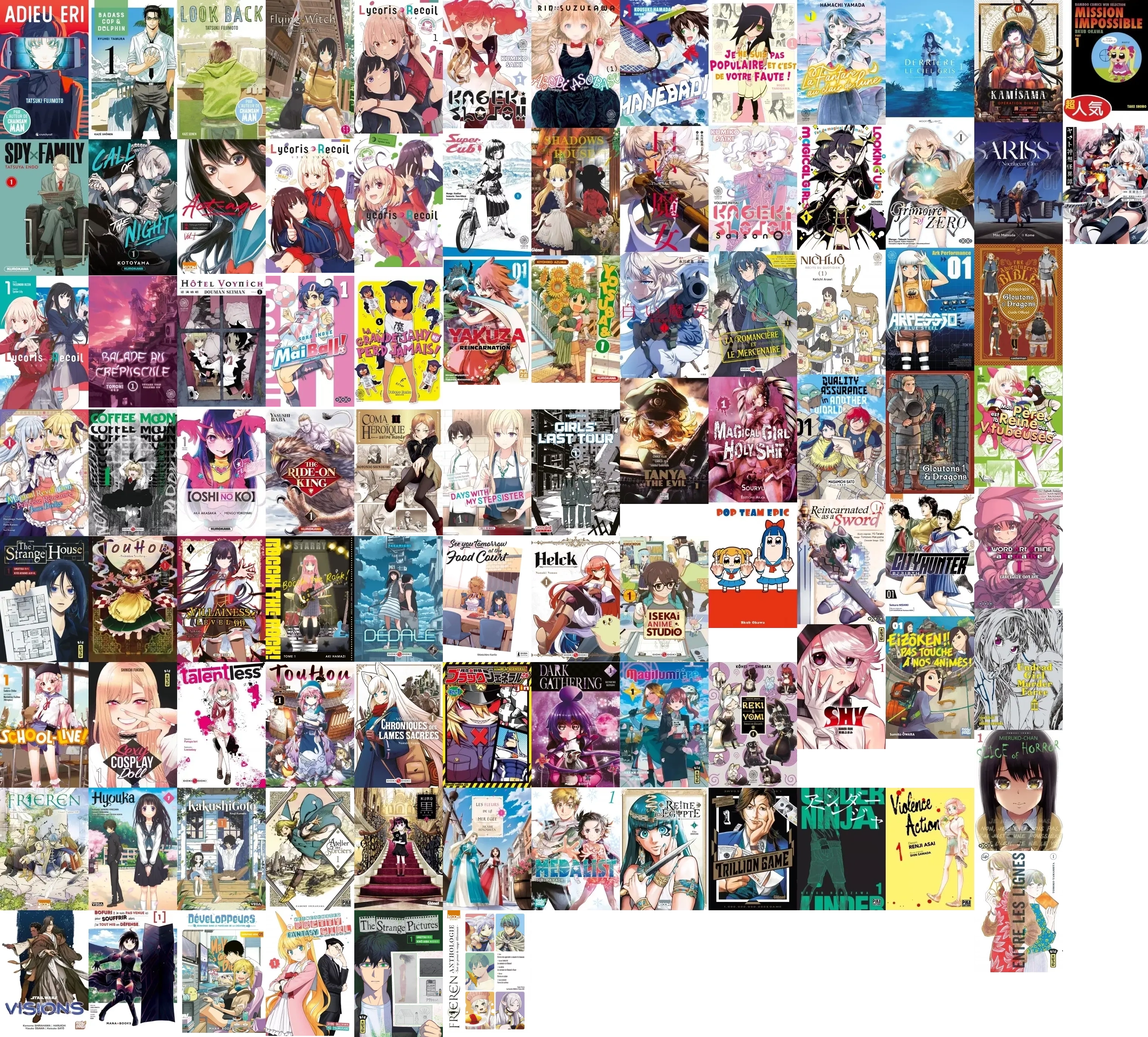
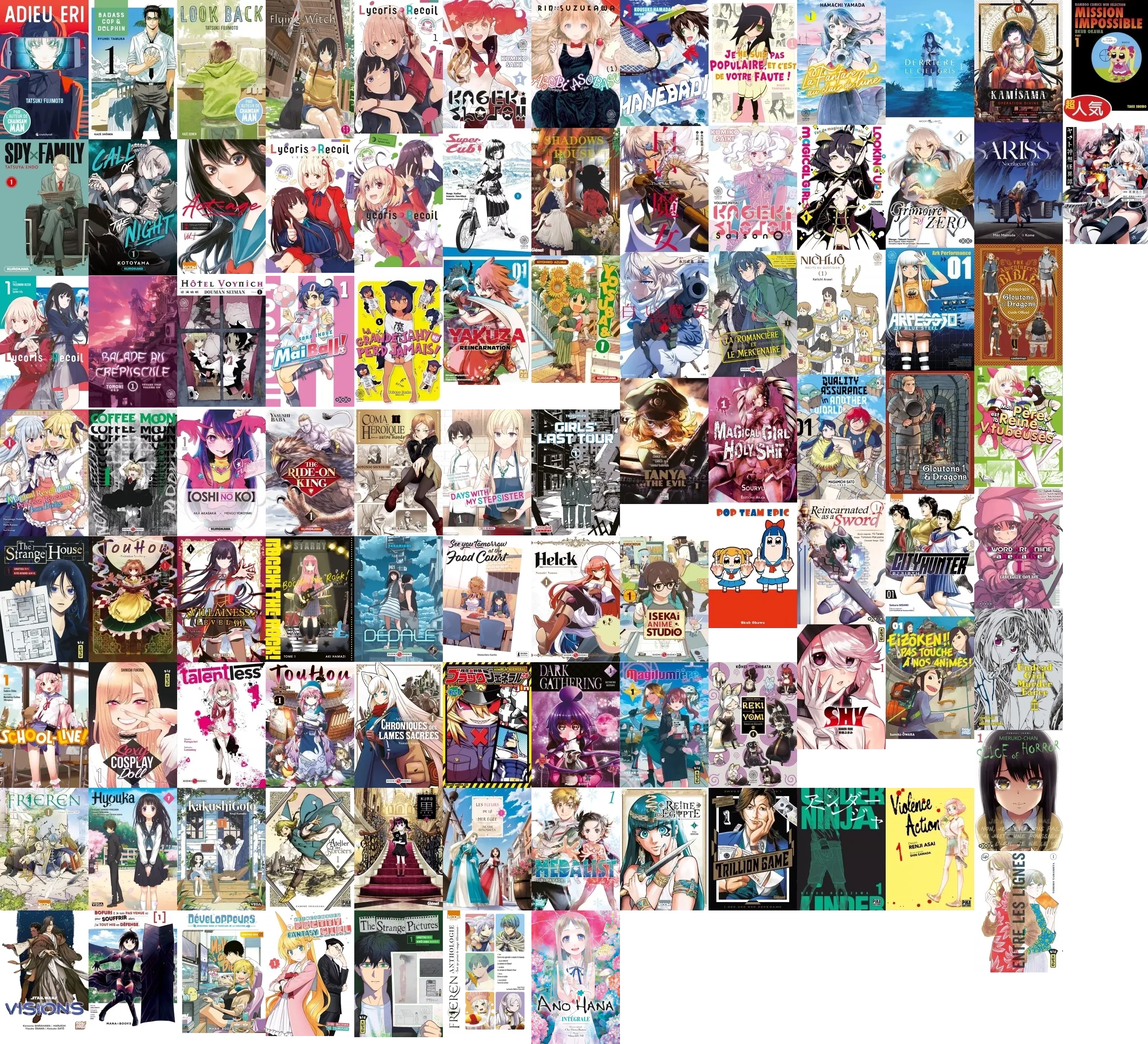
màj Kageki Shoujo 3+4, ajout AnoHana, modif de la recherche par titre pour ignorer les espaces

diff --git a/index.html b/index.html
@@ -335,7 +335,7 @@
             setTimeout(()=> {
                 grid.innerHTML = '';
                 const filteredMangas = currentMangas.filter(manga =>
-                    manga.title.main.toLowerCase().includes(titleFilter.toLowerCase()) || manga.id.toLowerCase().includes(titleFilter.toLowerCase())
+                    manga.title.main.toLowerCase().includes(titleFilter.toLowerCase()) || manga.id.toLowerCase().replace(/\s/g, '').includes(titleFilter.toLowerCase())
                 );
                 filteredMangas.forEach(manga => {
                     const col = document.createElement('div');
@@ -355,7 +355,7 @@
         }
 
         document.getElementById('searchInput').addEventListener('input', () => {
-            const filter = document.getElementById('searchInput').value;
+            const filter = document.getElementById('searchInput').value.replace(/\s/g, '');
             populateGrid(filter);
         });
 

diff --git a/style/images.css b/style/images.css
@@ -463,3 +463,8 @@
     width: 234px; height: 324px;
     background: url("../img/covers.webp") -1170px -2406px;
 }
+
+.bg-ano_hana_1039120 {
+    width: 234px; height: 353px;
+    background: url("../img/covers.webp") -1404px -2406px;
+}
